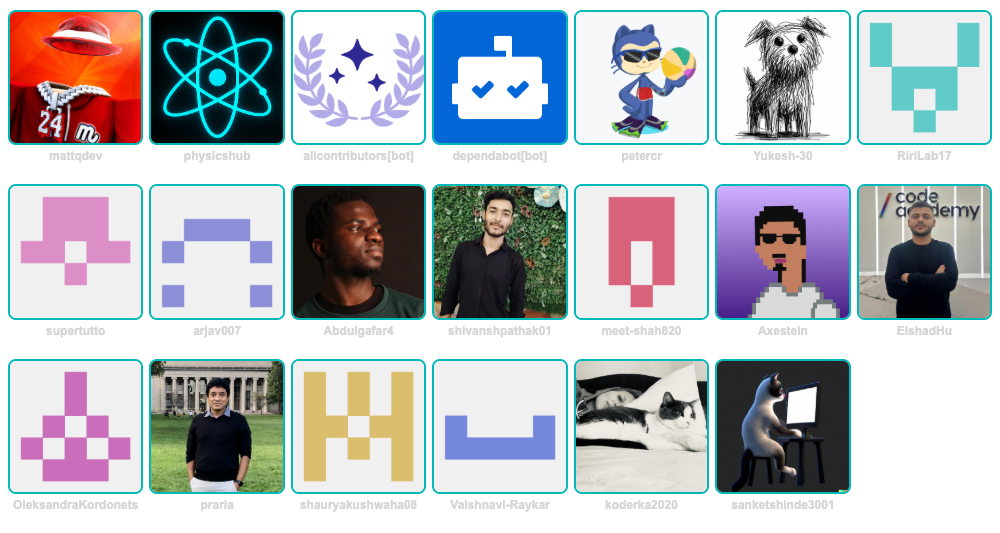
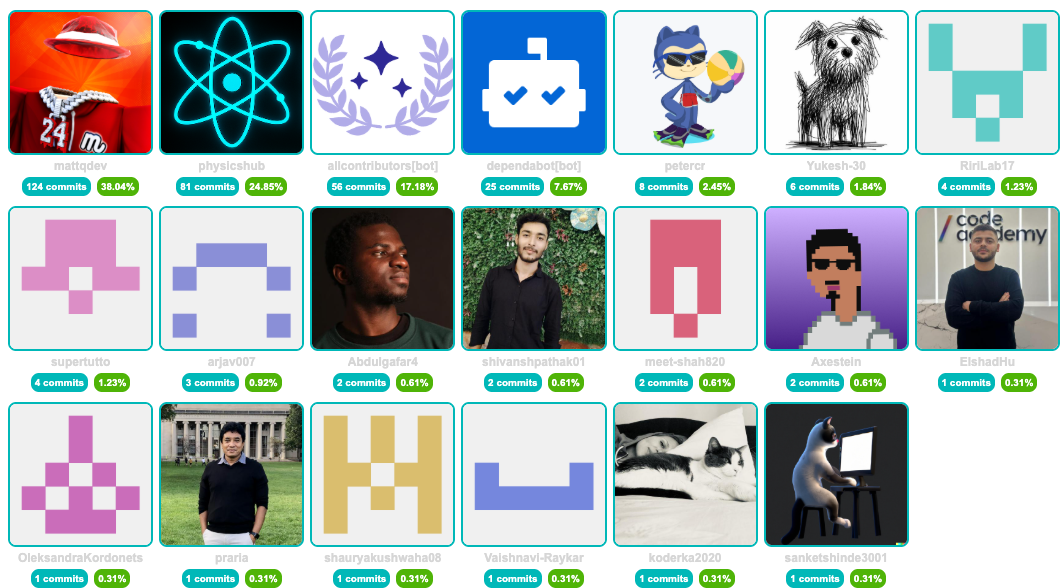
feat: enhance contributors display with commit counts and percentages for improved visibility

diff --git a/scripts/contributors/contributors.html b/scripts/contributors/contributors.html
@@ -1,20 +1,260 @@
-<!DOCTYPE html><link rel="stylesheet" href="contributors.css"><ul><li title="mattqdev"><img src="https://avatars.githubusercontent.com/u/115874885?v=4" alt="mattqdev"/><h3>mattqdev</h3></li>
-<li title="physicshub"><img src="https://avatars.githubusercontent.com/u/226545239?v=4" alt="physicshub"/><h3>physicshub</h3></li>
-<li title="allcontributors[bot]"><img src="https://avatars.githubusercontent.com/in/23186?v=4" alt="allcontributors[bot]"/><h3>allcontributors[bot]</h3></li>
-<li title="dependabot[bot]"><img src="https://avatars.githubusercontent.com/in/29110?v=4" alt="dependabot[bot]"/><h3>dependabot[bot]</h3></li>
-<li title="petercr"><img src="https://avatars.githubusercontent.com/u/26460352?v=4" alt="petercr"/><h3>petercr</h3></li>
-<li title="Yukesh-30"><img src="https://avatars.githubusercontent.com/u/180100862?v=4" alt="Yukesh-30"/><h3>Yukesh-30</h3></li>
-<li title="RiriLab17"><img src="https://avatars.githubusercontent.com/u/233789238?v=4" alt="RiriLab17"/><h3>RiriLab17</h3></li>
-<li title="supertutto"><img src="https://avatars.githubusercontent.com/u/184136337?v=4" alt="supertutto"/><h3>supertutto</h3></li>
-<li title="arjav007"><img src="https://avatars.githubusercontent.com/u/111127105?v=4" alt="arjav007"/><h3>arjav007</h3></li>
-<li title="Abdulgafar4"><img src="https://avatars.githubusercontent.com/u/66276321?v=4" alt="Abdulgafar4"/><h3>Abdulgafar4</h3></li>
-<li title="shivanshpathak01"><img src="https://avatars.githubusercontent.com/u/128770733?v=4" alt="shivanshpathak01"/><h3>shivanshpathak01</h3></li>
-<li title="meet-shah820"><img src="https://avatars.githubusercontent.com/u/173499961?v=4" alt="meet-shah820"/><h3>meet-shah820</h3></li>
-<li title="Axestein"><img src="https://avatars.githubusercontent.com/u/142435507?v=4" alt="Axestein"/><h3>Axestein</h3></li>
-<li title="ElshadHu"><img src="https://avatars.githubusercontent.com/u/216122679?v=4" alt="ElshadHu"/><h3>ElshadHu</h3></li>
-<li title="OleksandraKordonets"><img src="https://avatars.githubusercontent.com/u/170479081?v=4" alt="OleksandraKordonets"/><h3>OleksandraKordonets</h3></li>
-<li title="praria"><img src="https://avatars.githubusercontent.com/u/12003611?v=4" alt="praria"/><h3>praria</h3></li>
-<li title="shauryakushwaha08"><img src="https://avatars.githubusercontent.com/u/116422872?v=4" alt="shauryakushwaha08"/><h3>shauryakushwaha08</h3></li>
-<li title="Vaishnavi-Raykar"><img src="https://avatars.githubusercontent.com/u/126966675?v=4" alt="Vaishnavi-Raykar"/><h3>Vaishnavi-Raykar</h3></li>
-<li title="koderka2020"><img src="https://avatars.githubusercontent.com/u/64405107?v=4" alt="koderka2020"/><h3>koderka2020</h3></li>
-<li title="sanketshinde3001"><img src="https://avatars.githubusercontent.com/u/126979961?v=4" alt="sanketshinde3001"/><h3>sanketshinde3001</h3></li></ul>
+<!DOCTYPE html><link rel="stylesheet" href="contributors.css"><ul>
+      <li title="mattqdev">
+        <img src="https://avatars.githubusercontent.com/u/115874885?v=4" alt="mattqdev"/>
+        <h3>mattqdev</h3>
+        <div class="container">
+          <div class="commits">
+            <span>124 commits</span>
+          </div>
+          <div class="percentage">
+            <span>38.04%</span>
+          </div>
+        </div>
+      </li>
+
+      <li title="physicshub">
+        <img src="https://avatars.githubusercontent.com/u/226545239?v=4" alt="physicshub"/>
+        <h3>physicshub</h3>
+        <div class="container">
+          <div class="commits">
+            <span>81 commits</span>
+          </div>
+          <div class="percentage">
+            <span>24.85%</span>
+          </div>
+        </div>
+      </li>
+
+      <li title="allcontributors[bot]">
+        <img src="https://avatars.githubusercontent.com/in/23186?v=4" alt="allcontributors[bot]"/>
+        <h3>allcontributors[bot]</h3>
+        <div class="container">
+          <div class="commits">
+            <span>56 commits</span>
+          </div>
+          <div class="percentage">
+            <span>17.18%</span>
+          </div>
+        </div>
+      </li>
+
+      <li title="dependabot[bot]">
+        <img src="https://avatars.githubusercontent.com/in/29110?v=4" alt="dependabot[bot]"/>
+        <h3>dependabot[bot]</h3>
+        <div class="container">
+          <div class="commits">
+            <span>25 commits</span>
+          </div>
+          <div class="percentage">
+            <span>7.67%</span>
+          </div>
+        </div>
+      </li>
+
+      <li title="petercr">
+        <img src="https://avatars.githubusercontent.com/u/26460352?v=4" alt="petercr"/>
+        <h3>petercr</h3>
+        <div class="container">
+          <div class="commits">
+            <span>8 commits</span>
+          </div>
+          <div class="percentage">
+            <span>2.45%</span>
+          </div>
+        </div>
+      </li>
+
+      <li title="Yukesh-30">
+        <img src="https://avatars.githubusercontent.com/u/180100862?v=4" alt="Yukesh-30"/>
+        <h3>Yukesh-30</h3>
+        <div class="container">
+          <div class="commits">
+            <span>6 commits</span>
+          </div>
+          <div class="percentage">
+            <span>1.84%</span>
+          </div>
+        </div>
+      </li>
+
+      <li title="RiriLab17">
+        <img src="https://avatars.githubusercontent.com/u/233789238?v=4" alt="RiriLab17"/>
+        <h3>RiriLab17</h3>
+        <div class="container">
+          <div class="commits">
+            <span>4 commits</span>
+          </div>
+          <div class="percentage">
+            <span>1.23%</span>
+          </div>
+        </div>
+      </li>
+
+      <li title="supertutto">
+        <img src="https://avatars.githubusercontent.com/u/184136337?v=4" alt="supertutto"/>
+        <h3>supertutto</h3>
+        <div class="container">
+          <div class="commits">
+            <span>4 commits</span>
+          </div>
+          <div class="percentage">
+            <span>1.23%</span>
+          </div>
+        </div>
+      </li>
+
+      <li title="arjav007">
+        <img src="https://avatars.githubusercontent.com/u/111127105?v=4" alt="arjav007"/>
+        <h3>arjav007</h3>
+        <div class="container">
+          <div class="commits">
+            <span>3 commits</span>
+          </div>
+          <div class="percentage">
+            <span>0.92%</span>
+          </div>
+        </div>
+      </li>
+
+      <li title="Abdulgafar4">
+        <img src="https://avatars.githubusercontent.com/u/66276321?v=4" alt="Abdulgafar4"/>
+        <h3>Abdulgafar4</h3>
+        <div class="container">
+          <div class="commits">
+            <span>2 commits</span>
+          </div>
+          <div class="percentage">
+            <span>0.61%</span>
+          </div>
+        </div>
+      </li>
+
+      <li title="shivanshpathak01">
+        <img src="https://avatars.githubusercontent.com/u/128770733?v=4" alt="shivanshpathak01"/>
+        <h3>shivanshpathak01</h3>
+        <div class="container">
+          <div class="commits">
+            <span>2 commits</span>
+          </div>
+          <div class="percentage">
+            <span>0.61%</span>
+          </div>
+        </div>
+      </li>
+
+      <li title="meet-shah820">
+        <img src="https://avatars.githubusercontent.com/u/173499961?v=4" alt="meet-shah820"/>
+        <h3>meet-shah820</h3>
+        <div class="container">
+          <div class="commits">
+            <span>2 commits</span>
+          </div>
+          <div class="percentage">
+            <span>0.61%</span>
+          </div>
+        </div>
+      </li>
+
+      <li title="Axestein">
+        <img src="https://avatars.githubusercontent.com/u/142435507?v=4" alt="Axestein"/>
+        <h3>Axestein</h3>
+        <div class="container">
+          <div class="commits">
+            <span>2 commits</span>
+          </div>
+          <div class="percentage">
+            <span>0.61%</span>
+          </div>
+        </div>
+      </li>
+
+      <li title="ElshadHu">
+        <img src="https://avatars.githubusercontent.com/u/216122679?v=4" alt="ElshadHu"/>
+        <h3>ElshadHu</h3>
+        <div class="container">
+          <div class="commits">
+            <span>1 commits</span>
+          </div>
+          <div class="percentage">
+            <span>0.31%</span>
+          </div>
+        </div>
+      </li>
+
+      <li title="OleksandraKordonets">
+        <img src="https://avatars.githubusercontent.com/u/170479081?v=4" alt="OleksandraKordonets"/>
+        <h3>OleksandraKordonets</h3>
+        <div class="container">
+          <div class="commits">
+            <span>1 commits</span>
+          </div>
+          <div class="percentage">
+            <span>0.31%</span>
+          </div>
+        </div>
+      </li>
+
+      <li title="praria">
+        <img src="https://avatars.githubusercontent.com/u/12003611?v=4" alt="praria"/>
+        <h3>praria</h3>
+        <div class="container">
+          <div class="commits">
+            <span>1 commits</span>
+          </div>
+          <div class="percentage">
+            <span>0.31%</span>
+          </div>
+        </div>
+      </li>
+
+      <li title="shauryakushwaha08">
+        <img src="https://avatars.githubusercontent.com/u/116422872?v=4" alt="shauryakushwaha08"/>
+        <h3>shauryakushwaha08</h3>
+        <div class="container">
+          <div class="commits">
+            <span>1 commits</span>
+          </div>
+          <div class="percentage">
+            <span>0.31%</span>
+          </div>
+        </div>
+      </li>
+
+      <li title="Vaishnavi-Raykar">
+        <img src="https://avatars.githubusercontent.com/u/126966675?v=4" alt="Vaishnavi-Raykar"/>
+        <h3>Vaishnavi-Raykar</h3>
+        <div class="container">
+          <div class="commits">
+            <span>1 commits</span>
+          </div>
+          <div class="percentage">
+            <span>0.31%</span>
+          </div>
+        </div>
+      </li>
+
+      <li title="koderka2020">
+        <img src="https://avatars.githubusercontent.com/u/64405107?v=4" alt="koderka2020"/>
+        <h3>koderka2020</h3>
+        <div class="container">
+          <div class="commits">
+            <span>1 commits</span>
+          </div>
+          <div class="percentage">
+            <span>0.31%</span>
+          </div>
+        </div>
+      </li>
+
+      <li title="sanketshinde3001">
+        <img src="https://avatars.githubusercontent.com/u/126979961?v=4" alt="sanketshinde3001"/>
+        <h3>sanketshinde3001</h3>
+        <div class="container">
+          <div class="commits">
+            <span>1 commits</span>
+          </div>
+          <div class="percentage">
+            <span>0.31%</span>
+          </div>
+        </div>
+      </li></ul>

diff --git a/scripts/contributors/contributors.ts b/scripts/contributors/contributors.ts
@@ -6,10 +6,11 @@
 import { fileURLToPath } from 'node:url';
 import { dirname, join } from 'node:path';
 import axios, { type AxiosRequestConfig } from 'axios';
-import { writeToFile } from '../helpers/writeFile';
-import { green, red, yellow } from '../helpers/painter';
-import { createScreenshot } from '../helpers/screenshots';
-import type { Contributor } from './models/contributor';
+import { writeToFile } from '../helpers/writeFile.ts';
+import { green, red, yellow } from '../helpers/painter.ts';
+import { createScreenshot } from '../helpers/screenshots.ts';
+import type { Contributor } from './models/contributor.ts';
+import { getPercentagesContributor } from '../helpers/percentage.ts';
 
 const __filename = fileURLToPath(import.meta.url);
 const __dirname = dirname(__filename);
@@ -74,7 +75,19 @@ const fetchContributors = (
 const createContributorsList = async (contributors: Contributor[]) => {
   const list = contributors
     .map((c) => {
-      return `<li title="${c.login}"><img src="${c.avatar_url}" alt="${c.login}"/><h3>${c.login}</h3></li>`;
+      return `
+      <li title="${c.login}">
+        <img src="${c.avatar_url}" alt="${c.login}"/>
+        <h3>${c.login}</h3>
+        <div class="container">
+          <div class="commits">
+            <span>${c.contributions} commits</span>
+          </div>
+          <div class="percentage">
+            <span>${getPercentagesContributor(contributors, c)}</span>
+          </div>
+        </div>
+      </li>`;
     })
     .join('\n');
 

diff --git a/scripts/contributors/contributors.css b/scripts/contributors/contributors.css
@@ -51,3 +51,25 @@ h3 {
   overflow: hidden;
   text-overflow: ellipsis;
 }
+
+.container {
+  width: 100%;
+  display: flex;
+  justify-content: center;
+  gap: 6px;
+  margin-top: 4px;
+}
+.container > div {
+  padding: 4px;
+  border-radius: 8px;
+  text-align: center;
+  font-size: clamp(8px, 1.5vw, 10px);
+  font-weight: bold;
+  color: #ffffff;
+}
+.percentage {
+  background-color: #4fb407;
+}
+.commits {
+  background-color: #00b8b8;
+}

diff --git a/scripts/helpers/percentage.ts b/scripts/helpers/percentage.ts
@@ -1,0 +1,7 @@
+import type { Contributor } from '../contributors/models/contributor';
+
+export const getPercentagesContributor = (contributors: Contributor[], c: Contributor) => {
+    const totalContributions = contributors.reduce((acc, curr) => acc + curr.contributions, 0);
+    const percentage = (c.contributions / totalContributions) * 100;
+    return `${percentage.toFixed(2)}%`;
+}

diff --git a/scripts/helpers/writeFile.ts b/scripts/helpers/writeFile.ts
@@ -1,5 +1,5 @@
 import { writeFile } from 'node:fs/promises';
-import { logger } from './logger';
+import { logger } from './logger.ts';
 
 /**
  * Write content to a file.

diff --git a/scripts/contributors/models/contributor.ts b/scripts/contributors/models/contributor.ts
@@ -1,4 +1,5 @@
 export type Contributor = {
   login: string;
   avatar_url: string;
+  contributions: number;
 };
